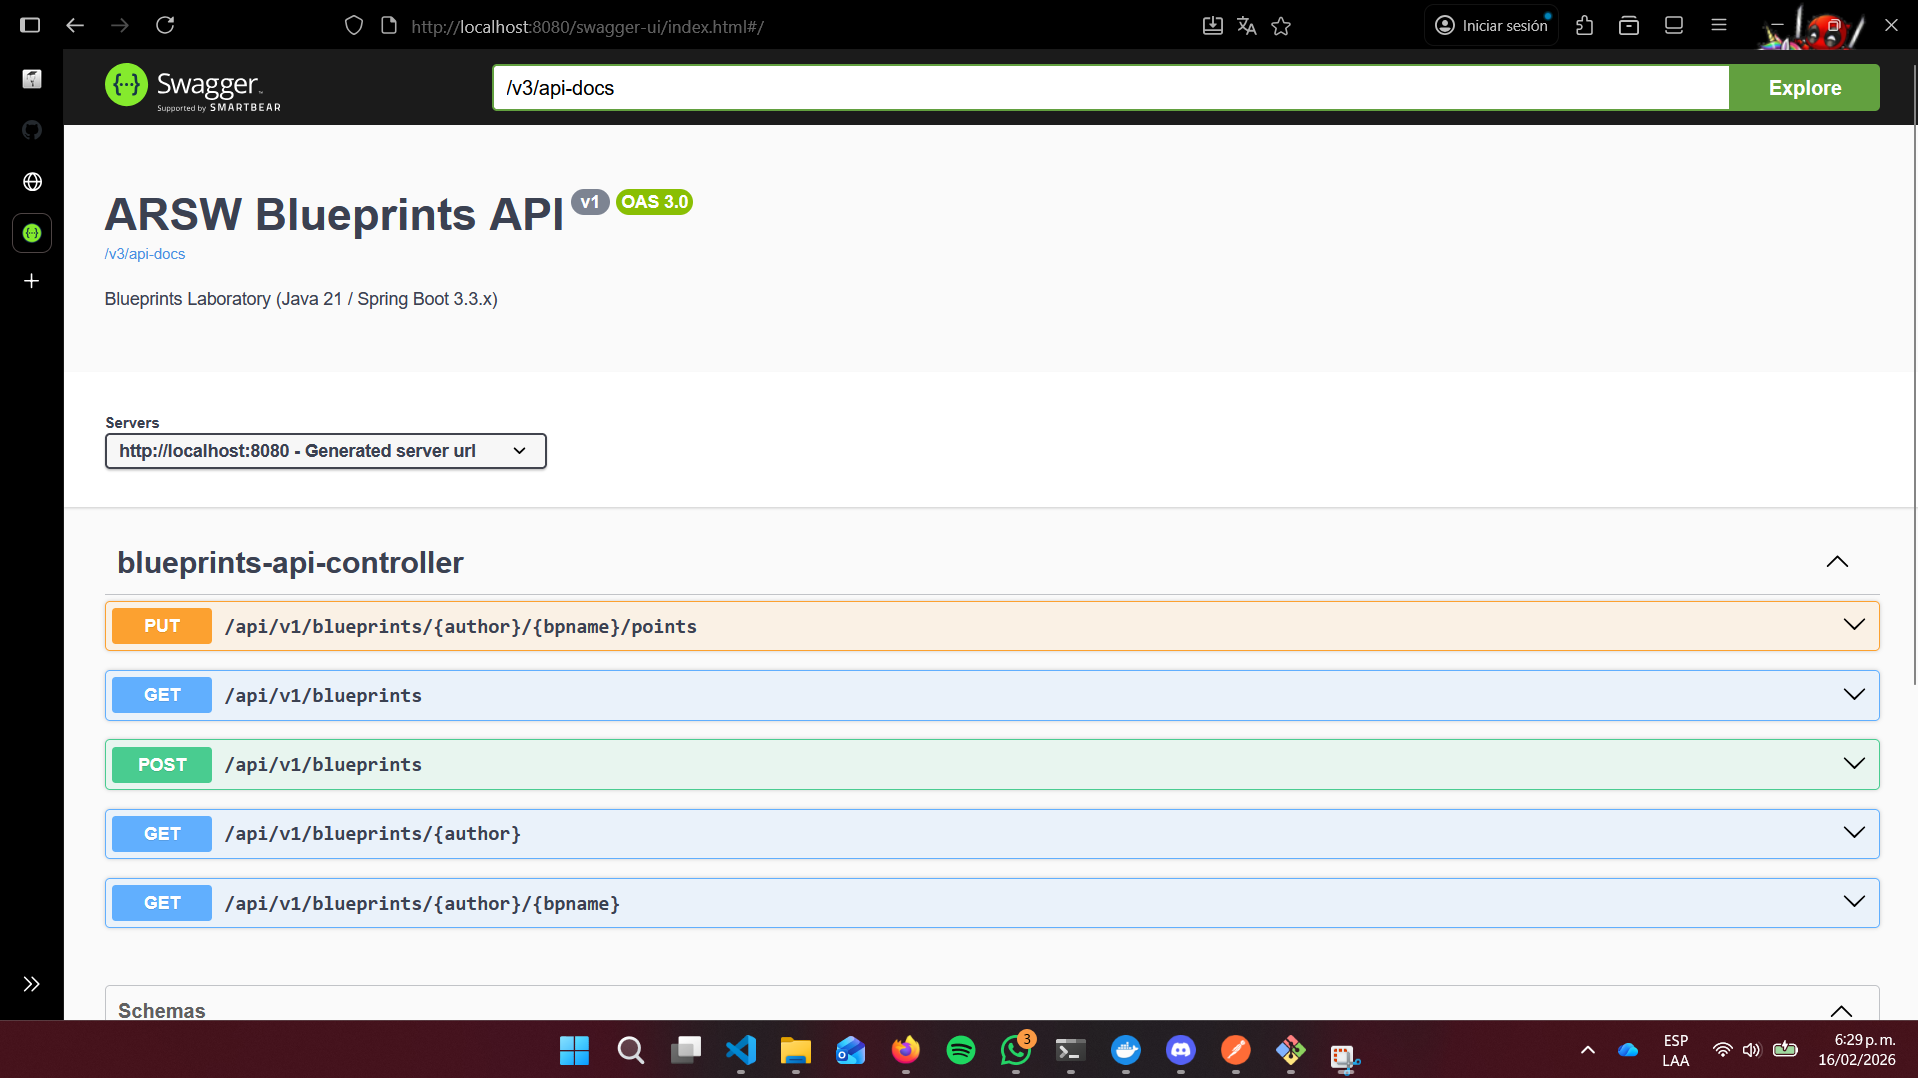
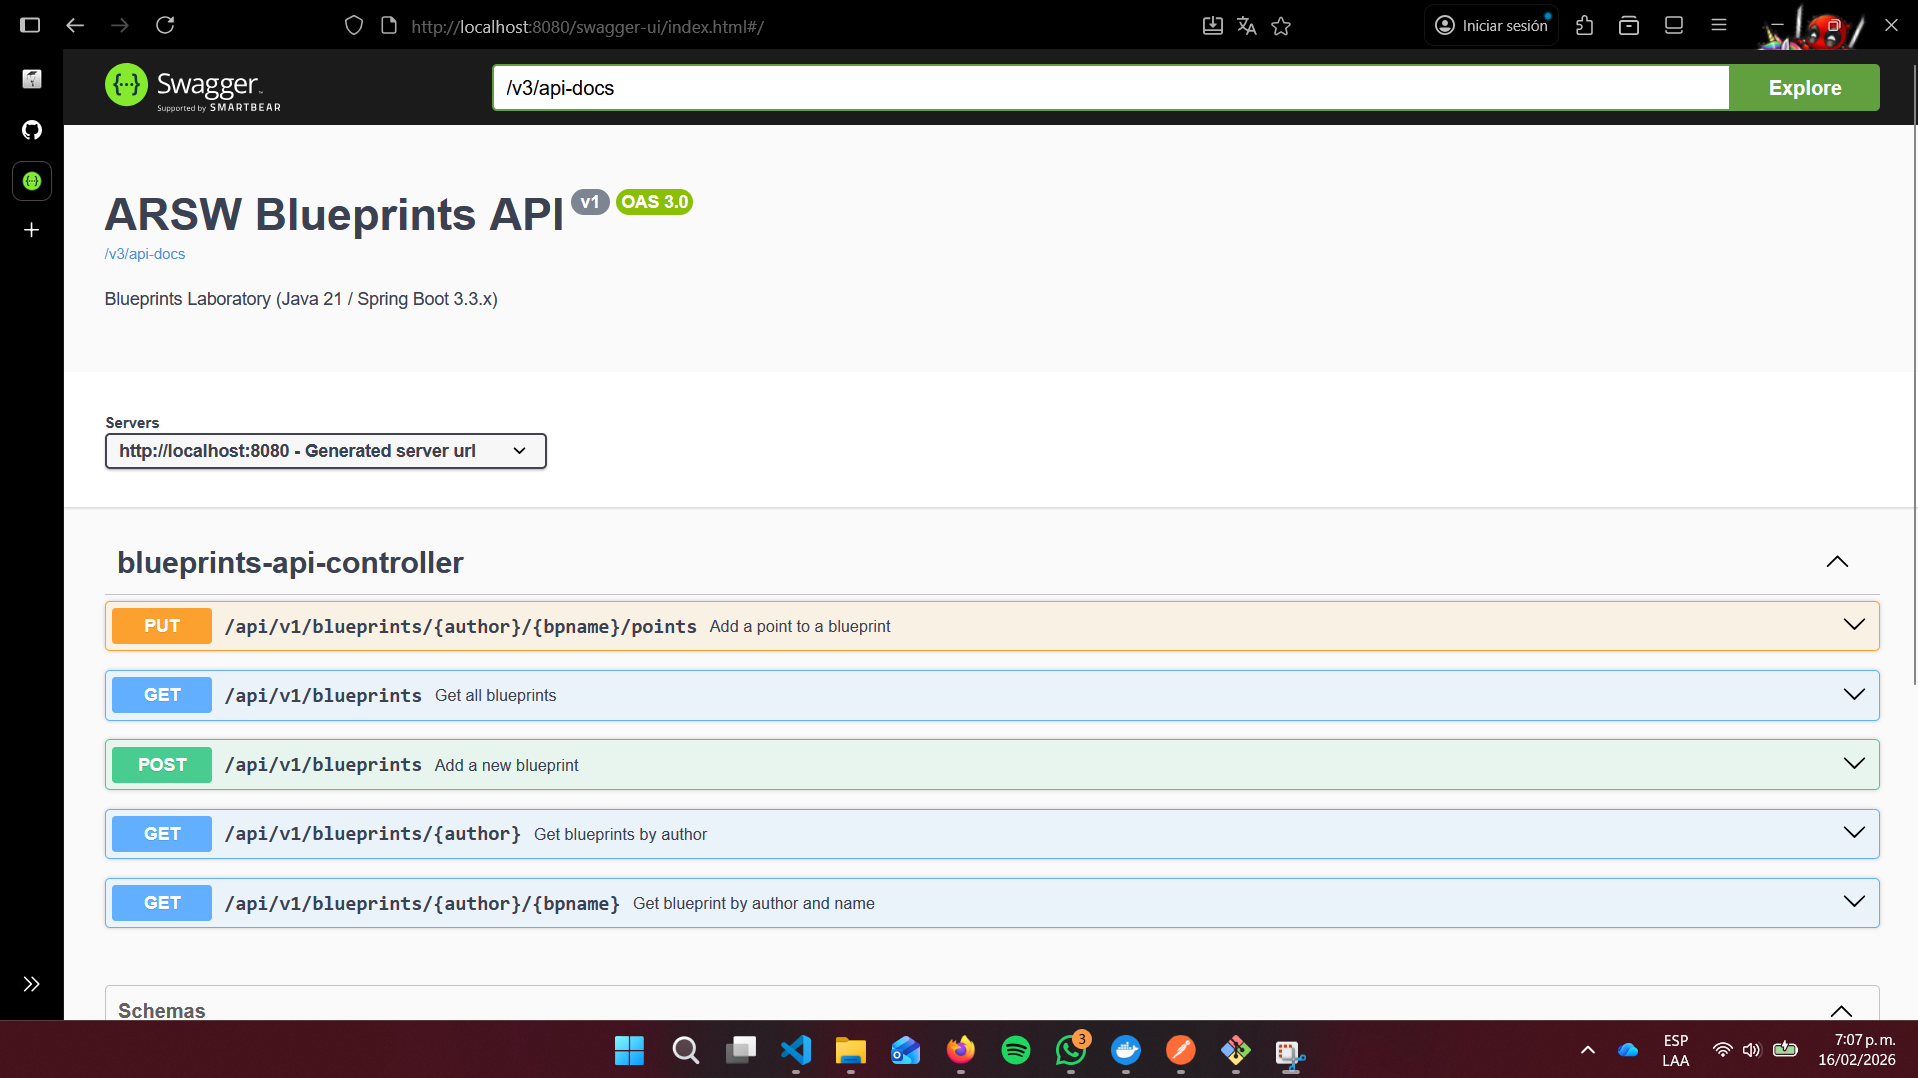
implementando documentacion en swagger con las anotaciones dadas en el laboratorio, implementacion readme

diff --git a/src/main/java/edu/eci/arsw/blueprints/controllers/BlueprintsAPIController.java b/src/main/java/edu/eci/arsw/blueprints/controllers/BlueprintsAPIController.java
@@ -1,11 +1,13 @@
 package edu.eci.arsw.blueprints.controllers;
 
-import edu.eci.arsw.blueprints.dto.ApiResponse;
+import edu.eci.arsw.blueprints.dto.ApiResponseRecord;
 import edu.eci.arsw.blueprints.exception.BlueprintNotFoundException;
 import edu.eci.arsw.blueprints.exception.BlueprintPersistenceException;
 import edu.eci.arsw.blueprints.model.Blueprint;
 import edu.eci.arsw.blueprints.model.Point;
 import edu.eci.arsw.blueprints.services.BlueprintsServices;
+import io.swagger.v3.oas.annotations.Operation;
+import io.swagger.v3.oas.annotations.responses.ApiResponse;
 import jakarta.validation.Valid;
 import jakarta.validation.constraints.NotBlank;
 import org.springframework.http.HttpStatus;
@@ -33,56 +35,70 @@ public class BlueprintsAPIController {
 
     // GET /blueprints
     //200
+    @Operation(summary = "Get all blueprints", description = "Returns a list of all blueprints")
+    @ApiResponse(description = "Successful retrieval of blueprints", responseCode = "200")
     @GetMapping
-    public ResponseEntity<ApiResponse<Set<Blueprint>>> getAll() {
-        return ResponseEntity.ok(new ApiResponse<>(200, "OK", services.getAllBlueprints()));
+    public ResponseEntity<ApiResponseRecord<Set<Blueprint>>> getAll() {
+        return ResponseEntity.ok(new ApiResponseRecord<>(200, "OK", services.getAllBlueprints()));
     }
 
     // GET /blueprints/{author}
     //200 y 404
+    @Operation(summary = "Get blueprints by author", description = "Returns a list of blueprints for a specific author")
+    @ApiResponse(description = "Successful retrieval of blueprints for the author", responseCode = "200")
+    @ApiResponse(description = "No blueprints found for the author", responseCode = "404")
     @GetMapping("/{author}")
     public ResponseEntity<?> byAuthor(@PathVariable String author) {
         try {
-            return ResponseEntity.ok(new ApiResponse<>(200, "OK", services.getBlueprintsByAuthor(author)));
+            return ResponseEntity.ok(new ApiResponseRecord<>(200, "OK", services.getBlueprintsByAuthor(author)));
         } catch (BlueprintNotFoundException e) {
-            return ResponseEntity.status(HttpStatus.NOT_FOUND).body(new ApiResponse<>(404, e.getMessage(), null));
+            return ResponseEntity.status(HttpStatus.NOT_FOUND).body(new ApiResponseRecord<>(404, e.getMessage(), null));
         }
     }
 
     // GET /blueprints/{author}/{bpname}
     //200 y 404
+    @Operation(summary = "Get blueprint by author and name", description = "Returns a specific blueprint identified by author and name")
+    @ApiResponse(description = "Successful retrieval of blueprint", responseCode = "200")
+    @ApiResponse(description = "Blueprint not found", responseCode = "404")
     @GetMapping("/{author}/{bpname}")
     public ResponseEntity<?> byAuthorAndName(@PathVariable String author, @PathVariable String bpname) {
         try {
-            return ResponseEntity.ok(new ApiResponse<>(200, "OK", services.getBlueprint(author, bpname)));
+            return ResponseEntity.ok(new ApiResponseRecord<>(200, "OK", services.getBlueprint(author, bpname)));
         } catch (BlueprintNotFoundException e) {
-            return ResponseEntity.status(HttpStatus.NOT_FOUND).body(new ApiResponse<>(404, e.getMessage(), null));
+            return ResponseEntity.status(HttpStatus.NOT_FOUND).body(new ApiResponseRecord<>(404, e.getMessage(), null));
         }
     }
 
     // POST /blueprints
     // 201 Y 400
+    @Operation(summary = "Add a new blueprint", description = "Creates a new blueprint with the provided data")
+    @ApiResponse(description = "Blueprint created successfully", responseCode = "201")
+    @ApiResponse(description = "Invalid blueprint data", responseCode = "400")
     @PostMapping
     public ResponseEntity<?> add(@Valid @RequestBody NewBlueprintRequest req) {
         try {
             Blueprint bp = new Blueprint(req.author(), req.name(), req.points());
             services.addNewBlueprint(bp);
-            return ResponseEntity.status(HttpStatus.CREATED).body(new ApiResponse<>(201, "Created OK", bp));
+            return ResponseEntity.status(HttpStatus.CREATED).body(new ApiResponseRecord<>(201, "Created OK", bp));
         } catch (BlueprintPersistenceException e) {
-            return ResponseEntity.status(HttpStatus.BAD_REQUEST).body(new ApiResponse<>(400, e.getMessage(), null));
+            return ResponseEntity.status(HttpStatus.BAD_REQUEST).body(new ApiResponseRecord<>(400, e.getMessage(), null));
         }
     }
 
     // PUT /blueprints/{author}/{bpname}/points
     //202 Y 404
+    @Operation(summary = "Add a point to a blueprint", description = "Adds a new point to an existing blueprint identified by author and name")
+    @ApiResponse(description = "Point added successfully", responseCode = "202")
+    @ApiResponse(description = "Blueprint not found", responseCode = "404")
     @PutMapping("/{author}/{bpname}/points")
     public ResponseEntity<?> addPoint(@PathVariable String author, @PathVariable String bpname,
                                       @RequestBody Point p) {
         try {
             services.addPoint(author, bpname, p.x(), p.y());
-            return ResponseEntity.status(HttpStatus.ACCEPTED).body(new ApiResponse<>(202, "Point Added", null));
+            return ResponseEntity.status(HttpStatus.ACCEPTED).body(new ApiResponseRecord<>(202, "Point Added", null));
         } catch (BlueprintNotFoundException e) {
-            return ResponseEntity.status(HttpStatus.NOT_FOUND).body(new ApiResponse<>(404, e.getMessage(), null));
+            return ResponseEntity.status(HttpStatus.NOT_FOUND).body(new ApiResponseRecord<>(404, e.getMessage(), null));
         }
     }
 

diff --git a/src/main/java/edu/eci/arsw/blueprints/filters/IdentityFilter.java b/src/main/java/edu/eci/arsw/blueprints/filters/IdentityFilter.java
@@ -10,6 +10,7 @@ import org.springframework.stereotype.Component;
  * This matches the baseline behavior of the reference lab before students implement custom filters.
  */
 @Component
+//Condicion para que se verifique que no esten activos al tiempo :)
 @Profile("!redundancy & !undersampling")
 public class IdentityFilter implements BlueprintsFilter {
     @Override

diff --git a/src/main/java/edu/eci/arsw/blueprints/dto/ApiResponseRecord.java b/src/main/java/edu/eci/arsw/blueprints/dto/ApiResponseRecord.java
@@ -1,6 +1,6 @@
 package edu.eci.arsw.blueprints.dto;
 
-public record ApiResponse<T>(
+public record ApiResponseRecord<T>(
         int code,
         String message,
         T data

diff --git a/README.md b/README.md
@@ -7,6 +7,18 @@
 - Java 21
 - Maven 3.9+
 
+### Instalación
+---
+
+1. Clonar el repositorio a la maquina local:
+   ```bash
+    git clone <URL_DEL_REPOSITORIO>
+    ```
+2. Navegar al directorio del repositorio
+    ```bash
+    cd <NOMBRE_DEL_PROYECTO>
+    ```
+
 ## ▶ Ejecución del proyecto
 ```bash
 mvn clean install
@@ -36,6 +48,10 @@ Abrir en navegador:
 ![alt text](docs/img/swagger.png)
 ---
 
+### Implementacion @ApiResponse
+
+![alt text](docs/img/apiResponse.png)
+
 - OpenAPI JSON: [http://localhost:8080/v3/api-docs](http://localhost:8080/v3/api-docs)  
 ### Evidencia Api-docs
 
@@ -54,6 +70,11 @@ src/main/java/edu/eci/arsw/blueprints
   ├── filters/       # Filtros de procesamiento (Identity, Redundancy, Undersampling)
   ├── controllers/   # REST Controllers (BlueprintsAPIController)
   └── config/        # Configuración (Swagger/OpenAPI, etc.)
+  └── dto/           # Implementacion ApiResponseRecord
+  └── exception/     # Separa de la capa de persistencia las excepciones usadas por el sistema
+
+
+
 ```
 
 > Esta separación sigue el patrón **capas lógicas** (modelo, persistencia, servicios, controladores), facilitando la extensión hacia nuevas tecnologías o fuentes de datos.
@@ -64,8 +85,13 @@ src/main/java/edu/eci/arsw/blueprints
 
 ### 1. Familiarización con el código base
 - Revisa el paquete `model` con las clases `Blueprint` y `Point`.  
-- Entiende la capa `persistence` con `InMemoryBlueprintPersistence`.  
+Point usa record que es para modelar datos inmutables con una sintaxis muy concisa, eliminando código repetitivo
+
+- Entiende la capa `persistence` con `InMemoryBlueprintPersistence`.
+Lo que hace esta capa es guardar los blueprintsen un Map dentro de la aplicación, sin una base de datos `:(`
+
 - Analiza la capa `services` (`BlueprintsServices`) y el controlador `BlueprintsAPIController`.
+La capa services y los controladores tienen como principal funcion añadir blueprints, point y unos metodos get para consultar o conseguir todos los blueprints que existen, filtrarlos por autor y por ultimo por blueprint y por autor
 
 ### 2. Migración a persistencia en PostgreSQL
 - Configura una base de datos PostgreSQL (puedes usar Docker).  
@@ -163,7 +189,7 @@ spring.profiles.active=redundancy
   - **RedundancyFilter**: elimina puntos duplicados consecutivos.  
   #### Prueba ejecutada con el comando curl desde bash
 
-  ![alt text](docs/img/redudancyFilter.png)
+  ![alt text](docs/img/redudancy.png)
   ---
   - **UndersamplingFilter**: conserva 1 de cada 2 puntos. 
    #### Prueba ejecutada con el comando curl desde bash y activando `#spring.profiles.active=undersampling`
@@ -189,17 +215,6 @@ spring.profiles.active=redundancy
 
 ---
 
-## 📊 Criterios de evaluación
+## Autor
 
-| Criterio | Peso |
-|----------|------|
-| Diseño de API (versionamiento, DTOs, ApiResponse) | 25% |
-| Migración a PostgreSQL (repositorio y persistencia correcta) | 25% |
-| Uso correcto de códigos HTTP y control de errores | 20% |
-| Documentación con OpenAPI/Swagger + README | 15% |
-| Pruebas básicas (unitarias o de integración) | 15% |
-
-**Bonus**:  
-
-- Imagen de contenedor (`spring-boot:build-image`).  
-- Métricas con Actuator.  
+* **Julian Camilo Lopez Barrero** - [JulianLopez11](https://github.com/JulianLopez11)
